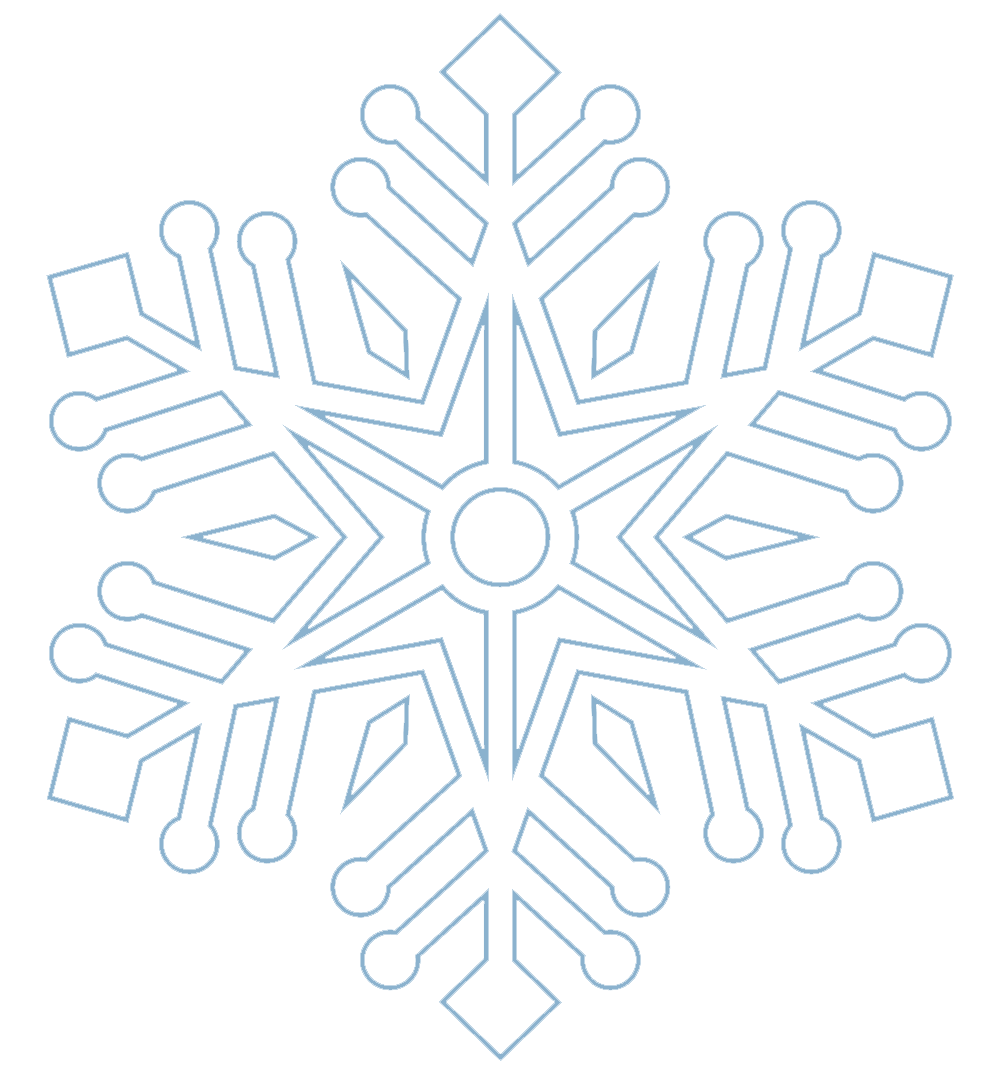
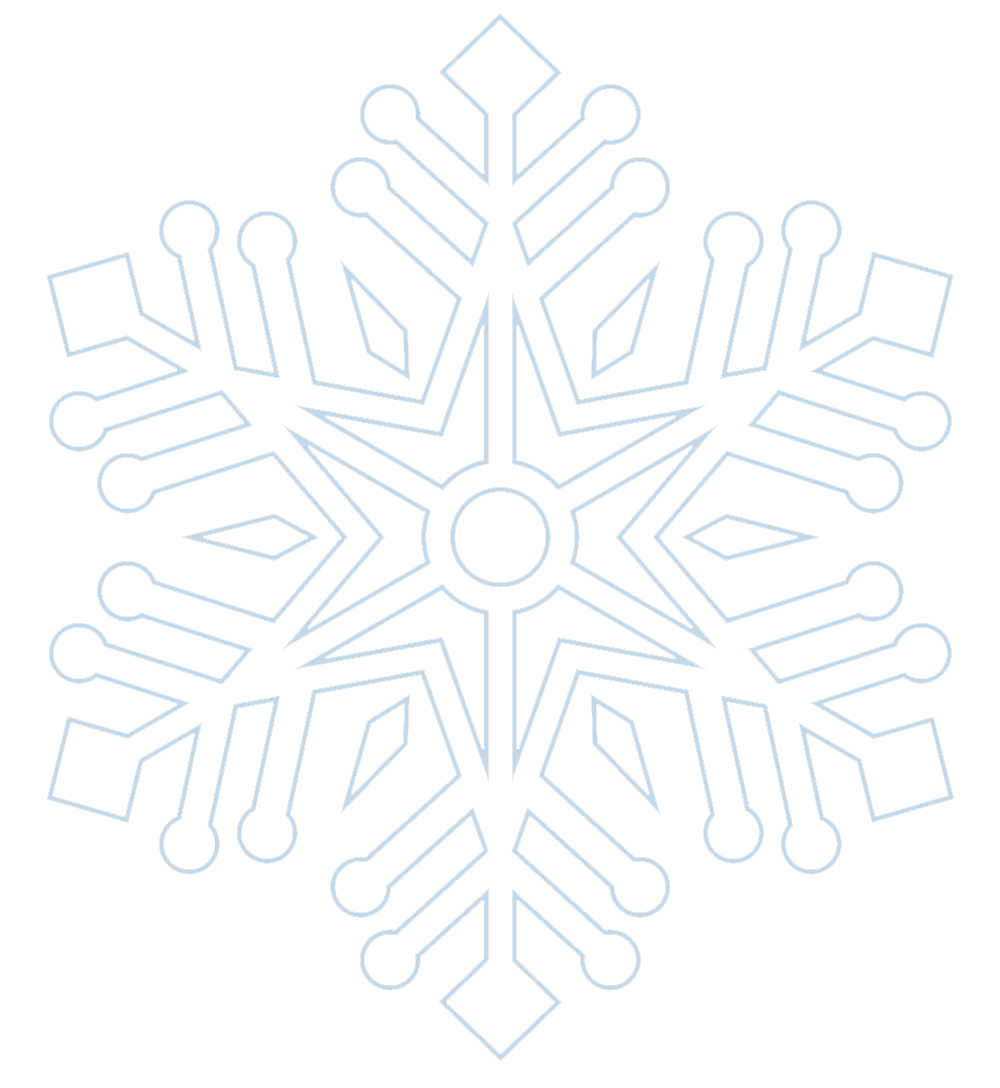
изменения 2

diff --git a/src/App.css b/src/App.css
@@ -287,7 +287,7 @@ body {
   left: calc(var(--index) * 35);
   opacity: 0.2;
   z-index: 1;
-  width: calc(var(--index) * 25);
+  width: calc(var(--index) * 17);
 }
 
 /* vedalife */
@@ -326,8 +326,8 @@ body {
 .video {
   margin: auto;
   margin-top: calc(var(--index) * 1);
-  width: 100vw;
-  height: 50vw;
+  width: 50vw;
+  height: 25vw;
 }
 .active {
   animation: active 1s ease-in;
@@ -450,15 +450,15 @@ body {
   position: absolute;
   bottom: calc(var(--index) * 1);
   left: calc(var(--index) * -1.5);
-  width: calc(var(--index) * 15);
+  width: calc(var(--index) * 10);
   z-index: -1;
-  opacity: 0.5;
+  opacity: 0.3;
 }
 .festival__snowflake2 {
   position: absolute;
   z-index: -1;
-  opacity: 0.5;
-  width: calc(var(--index) * 20);
+  opacity: 0.3;
+  width: calc(var(--index) * 10);
   top: calc(var(--index) * 1);
 }
 .festival__btn {
@@ -512,9 +512,9 @@ body {
   position: absolute;
   top: calc(var(--index) * 10);
   right: calc(var(--index) * -1);
-  width: calc(var(--index) * 19);
+  width: calc(var(--index) * 11);
   z-index: -1;
-  opacity: 0.5;
+  opacity: 0.2;
 }
 .programmFestival__btn {
   position: absolute;
@@ -601,9 +601,9 @@ body {
   position: absolute;
   top: calc(var(--index) * 0.1);
   right: calc(var(--index) * 2.5);
-  width: calc(var(--index) * 19);
+  width: calc(var(--index) * 11);
   z-index: -1;
-  opacity: 0.5;
+  opacity: 0.2;
 }
 .description__btn {
   position: absolute;
@@ -631,33 +631,33 @@ body {
   position: absolute;
   top: calc(var(--index) * 14.5);
   right: calc(var(--index) * 5.5);
-  width: calc(var(--index) * 8);
+  width: calc(var(--index) * 7);
   z-index: -1;
-  opacity: 0.5;
+  opacity: 0.3;
 }
 .description__snowflake3 {
   position: absolute;
   bottom: calc(var(--index) * -10);
   left: calc(var(--index) * 5);
-  width: calc(var(--index) * 18);
+  width: calc(var(--index) * 11);
   z-index: -1;
-  opacity: 0.5;
+  opacity: 0.2;
 }
 .description__snowflake4 {
   position: absolute;
   bottom: calc(var(--index) * -13);
   right: calc(var(--index) * -7);
-  width: calc(var(--index) * 18);
+  width: calc(var(--index) * 10);
   z-index: -1;
-  opacity: 0.5;
+  opacity: 0.3;
 }
 .description__snowflake5 {
   position: absolute;
   bottom: calc(var(--index) * 1);
   left: calc(var(--index) * -0.5);
-  width: calc(var(--index) * 18);
+  width: calc(var(--index) * 10);
   z-index: -1;
-  opacity: 0.5;
+  opacity: 0.3;
 }
 .description__btnEnd {
   position: absolute;
@@ -806,9 +806,9 @@ body {
   position: absolute;
   top: calc(var(--index) * 1);
   left: calc(var(--index) * 6);
-  width: calc(var(--index) * 19);
+  width: calc(var(--index) * 10);
   z-index: -1;
-  opacity: 0.5;
+  opacity: 0.3;
 }
 .speaker__snowflake1 {
   position: absolute;
@@ -816,15 +816,15 @@ body {
   left: calc(var(--index) * 5);
   width: calc(var(--index) * 7);
   z-index: -1;
-  opacity: 0.5;
+  opacity: 0.3;
 }
 .speaker__snowflake2 {
   position: absolute;
   top: calc(var(--index) * 34);
   right: calc(var(--index) * -4);
-  width: calc(var(--index) * 19);
+  width: calc(var(--index) * 10);
   z-index: -1;
-  opacity: 0.5;
+  opacity: 0.3;
 }
 .speaker__btn1 {
   position: absolute;
@@ -877,9 +877,9 @@ body {
   font-family: 'BebasNeueBook';
   padding-bottom: calc(var(--index) * 1);
   padding-top: calc(var(--index) * 2);
-  color: var(--darkPink);
+  color: var(--white);
   letter-spacing: 1.5px;
-  text-shadow: 0px 0px 5px var(--white);
+  /* text-shadow: 0px 0px 5px var(--white); */
 }
 .registraition__text {
   font-size: 18px;
@@ -924,15 +924,15 @@ body {
   position: absolute;
   top: calc(var(--index) * -2);
   left: calc(var(--index) * 1);
-  width: calc(var(--index) * 13);
-  opacity: 0.5;
+  width: calc(var(--index) * 12);
+  opacity: 0.2;
 }
 .registraition__snowflake2 {
   position: absolute;
-  bottom: calc(var(--index) * -3);
-  right: calc(var(--index) * 10);
-  width: calc(var(--index) * 25);
-  opacity: 0.3;
+  bottom: calc(var(--index) * -1);
+  right: calc(var(--index) * 22);
+  width: calc(var(--index) * 10);
+  opacity: 0.2;
 }
 /* price */
 .price {
@@ -1020,8 +1020,8 @@ body {
   position: absolute;
   top: calc(var(--index) * 5);
   left: calc(var(--index) * 1);
-  width: calc(var(--index) * 23);
-  opacity: 0.5;
+  width: calc(var(--index) * 13);
+  opacity: 0.3;
   z-index: -1;
 }
 /* footer */
@@ -1037,6 +1037,7 @@ body {
   padding-bottom: calc(var(--index) * 3);
 }
 .footer__logo1 img {
+  display: none;
   width: calc(var(--index) * 6);
   height: calc(var(--index) * 3.5);
 }
@@ -1091,7 +1092,8 @@ body {
 .footer__whatsapp:hover,
 .footer__telegram:hover,
 .footer__instagram:hover,
-.footer__vk:hover {
+.footer__vk:hover,
+.footer__social img:hover {
   scale: 1.2;
   transition: scale 0.2s ease-in;
   cursor: pointer;
@@ -1287,7 +1289,7 @@ body {
     position: absolute;
     top: calc(var(--index) * 2);
     left: calc(var(--index) * -1);
-    opacity: 0.5;
+    opacity: 0.2;
     z-index: 1;
   }
   .newYear__date {
@@ -1313,13 +1315,11 @@ body {
     height: calc(var(--index) * 20);
     z-index: 1;
   }
+  
   .festival__content {
     width: calc(var(--index) * 45);
     margin-right: calc(var(--index) * 5);
     margin-left: calc(var(--index) * 5);
-  }
-  .price__snowflake {
-    opacity: 0.2;
   }
 }
 @media (max-width: 700px) {
@@ -1401,10 +1401,10 @@ body {
   .speakers__snowflake {
     display: flex;
     position: absolute;
-    top: calc(var(--index) * -12);
+    top: calc(var(--index) * -7);
     left: calc(var(--index) * -15);
-    width: calc(var(--index) * 25);
-    opacity: 0.5;
+    width: calc(var(--index) * 17);
+    opacity: 0.1;
     z-index: 1;
   }
   .speaker,

diff --git a/src/components/speakers.js b/src/components/speakers.js
@@ -78,8 +78,8 @@ function Speakers() {
               <h2>Роман Волков</h2>
             </div>
             <div className="speaker__text">
-              <p>текс текс текс текс текс текс текс</p>
-              <p>текс текс текс текс текс текс текс</p>
+              <p>Бизнес-архитектор, </p>
+              <p>счастливый муж счастливой жены</p>
             </div>
           </div>
         </div>

diff --git a/src/components/cooking.js b/src/components/cooking.js
@@ -11,7 +11,7 @@ function Cooking() {
   return (
     <div ref={ref}>
       <div className={`cooking ${inView ? 'active' : ''}`}>
-        <img className="cooking__img" src="./image/09.jpg" alt="cooking" />
+        <img className="cooking__img" src="./image/09small.jpg" alt="cooking" />
       </div>
     </div>
   );

diff --git a/src/App.js b/src/App.js
@@ -30,7 +30,7 @@ function App() {
       <Festival />
       <Mandarin />
       <ProgrammFestival />
-      <Table />
+      {/* <Table /> */}
       <Description />
       <Cooking />
       <Speakers />
